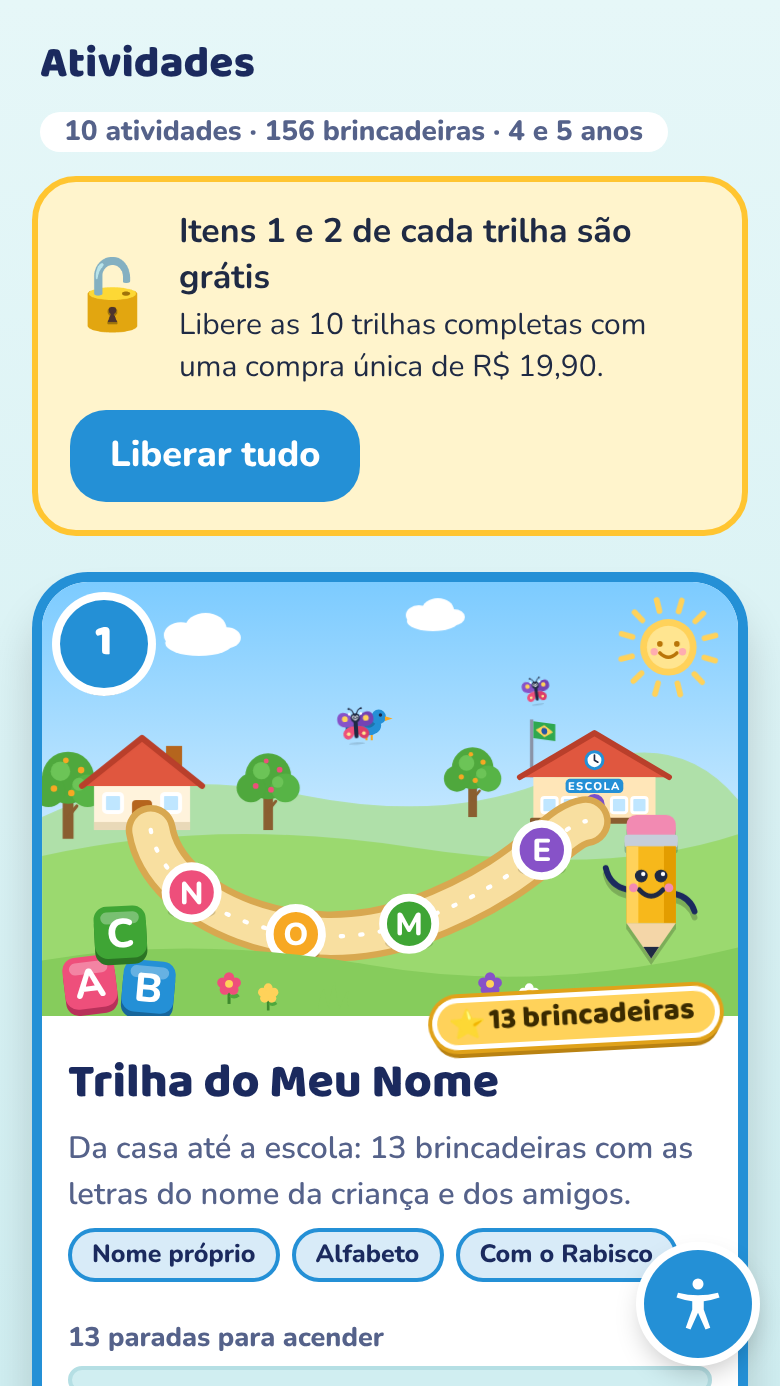
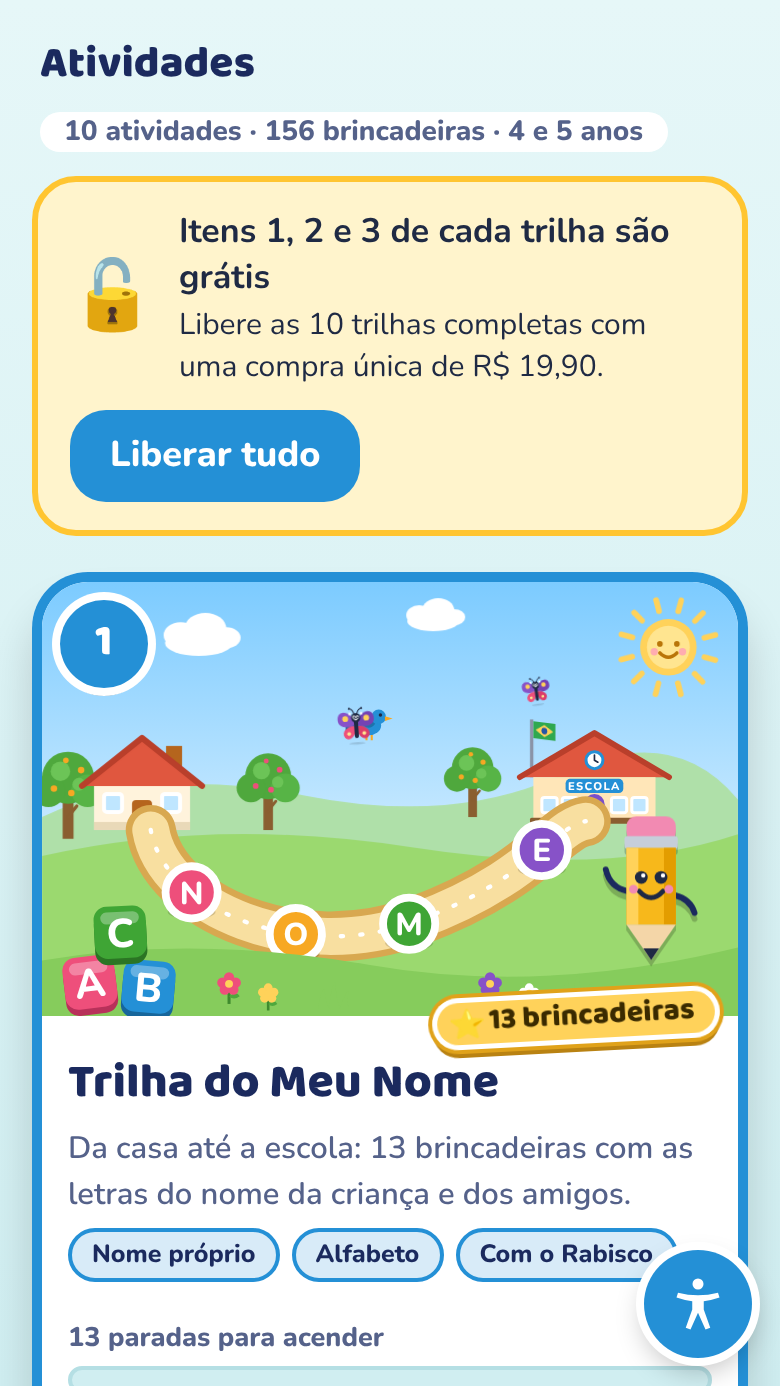
App: itens 1, 2 e 3 de cada trilha grátis
GRATIS passa de 2 para 3; textos do app, da ficha da loja, da política e as telas da loja atualizados.

Claude-Session: https://claude.ai/code/session_01XZWSyeUYrPnR5ADpTgVpex

Changed region(s): [[0.3692, 0.1551, 0.8615, 0.1861], [0.7692, 0.6205, 0.8615, 0.6515]]

diff --git a/app-alfabetizando/web/premium.js b/app-alfabetizando/web/premium.js
@@ -1,12 +1,12 @@
 /* Alfabetizando (app Android): bloqueio das trilhas e compra dentro do app.
-   Regra: em cada trilha, os itens 1 e 2 ficam abertos; do item 3 em diante
+   Regra: em cada trilha, os itens 1, 2 e 3 ficam abertos; do item 4 em diante
    aparece um cadeado até a compra única "Trilhas completas" na Google Play.
    Este arquivo é injetado no fim de cada página pelo scripts/montar-www.mjs. */
 (function () {
   'use strict';
 
   var PRODUTO = 'trilhas_completas';   // mesmo ID cadastrado no Play Console
-  var GRATIS = 2;                      // itens abertos por trilha
+  var GRATIS = 3;                      // itens abertos por trilha
   var CHAVE = 'alf:premium';
   var PRECO_PADRAO = 'R$ 19,90';       // preço cadastrado no Play Console; a loja manda o valor oficial
 
@@ -114,7 +114,7 @@
     cx.innerHTML = '';
     cx.appendChild(el('div', 'alf-ic', '🎁'));
     cx.appendChild(el('h2', null, 'Libere todas as trilhas'));
-    cx.appendChild(el('p', null, 'Os itens 1 e 2 de cada trilha são grátis para conhecer. Com uma compra única, as 10 trilhas ficam liberadas por completo, para sempre, nesta conta Google.'));
+    cx.appendChild(el('p', null, 'Os itens 1, 2 e 3 de cada trilha são grátis para conhecer. Com uma compra única, as 10 trilhas ficam liberadas por completo, para sempre, nesta conta Google.'));
     cx.appendChild(el('p', 'alf-preco'));
     var msg = el('div', 'alf-msg');
     var comprar = el('button', 'alf-b alf-comprar'); comprar.type = 'button';
@@ -147,7 +147,7 @@
     return i >= GRATIS;
   }
 
-  // Cadeado nas paradas do mapa (do item 3 em diante).
+  // Cadeado nas paradas do mapa (do item 4 em diante).
   function atualizarMapa() {
     var G = jogos(); if (!G) return;
     var livre = liberado();
@@ -195,7 +195,7 @@
     var f = el('div', 'alf-hub'); f.id = 'alfBtnHub';
     f.appendChild(el('span', 'alf-hub-ic', '🔓'));
     var t = el('div', 'alf-hub-tx');
-    t.appendChild(el('b', null, 'Itens 1 e 2 de cada trilha são grátis'));
+    t.appendChild(el('b', null, 'Itens 1, 2 e 3 de cada trilha são grátis'));
     t.appendChild(el('span', null, 'Libere as 10 trilhas completas com uma compra única de ' + PRECO_PADRAO + '.'));
     f.appendChild(t);
     var b = el('button', 'alf-b', 'Liberar tudo'); b.type = 'button'; b.onclick = abrirAviso; f.appendChild(b);

diff --git a/app-alfabetizando/loja/privacidade-alfabetizando.html b/app-alfabetizando/loja/privacidade-alfabetizando.html
@@ -46,7 +46,7 @@ footer{margin-top:40px;padding-top:16px;border-top:1px solid var(--linha);color:
   <p>A narração usa a voz em português instalada no próprio aparelho. O aplicativo não grava áudio e não usa o microfone.</p>
 
   <h2>Compra dentro do aplicativo</h2>
-  <p>Os itens 1 e 2 de cada trilha são gratuitos. As trilhas completas são liberadas com uma compra única feita pela Google Play. O pagamento é processado inteiramente pelo Google, conforme a <a href="https://policies.google.com/privacy?hl=pt-BR">Política de Privacidade do Google</a>. Nós não recebemos dados de cartão nem dados pessoais de quem compra. O aplicativo só consulta a Google Play para saber se a compra foi feita.</p>
+  <p>Os itens 1, 2 e 3 de cada trilha são gratuitos. As trilhas completas são liberadas com uma compra única feita pela Google Play. O pagamento é processado inteiramente pelo Google, conforme a <a href="https://policies.google.com/privacy?hl=pt-BR">Política de Privacidade do Google</a>. Nós não recebemos dados de cartão nem dados pessoais de quem compra. O aplicativo só consulta a Google Play para saber se a compra foi feita.</p>
   <p>Antes da tela de compra, o aplicativo mostra uma pergunta para ser respondida por um adulto, para que a criança não chegue sozinha ao pagamento.</p>
 
   <h2>Conexão com a internet</h2>

diff --git a/app-alfabetizando/loja/ficha-da-loja.md b/app-alfabetizando/loja/ficha-da-loja.md
@@ -6,7 +6,7 @@ Textos e respostas para copiar no Play Console.
 
 - **Nome do app** (até 30 caracteres): Alfabetizando
 - **Descrição curta** (até 80 caracteres):
-  Brincadeiras com letras para crianças de 4 e 5 anos. Itens 1 e 2 grátis.
+  Brincadeiras com letras para crianças de 4 e 5 anos. Itens 1, 2 e 3 grátis.
 - **Categoria:** Educação
 - **E-mail de contato:** mundo.encantado.prof@gmail.com
 - **Site:** https://mundoencantadoeduca.com.br
@@ -42,7 +42,7 @@ PARA EDUCADORES E FAMÍLIAS
 • Acessibilidade: velocidade da voz, letras maiores e menos movimento.
 
 GRÁTIS PARA CONHECER
-Os itens 1 e 2 de cada trilha são gratuitos. Com uma compra única de R$ 19,90, sem assinatura, as 10 trilhas ficam liberadas por completo. Antes da compra, o app faz uma pergunta para um adulto responder.
+Os itens 1, 2 e 3 de cada trilha são gratuitos. Com uma compra única de R$ 19,90, sem assinatura, as 10 trilhas ficam liberadas por completo. Antes da compra, o app faz uma pergunta para um adulto responder.
 
 SEM ANÚNCIOS E SEM COLETA DE DADOS
 Não há cadastro nem anúncios. O nome da criança e o avanço ficam guardados só no aparelho.

diff --git a/app-alfabetizando/LEIA-ME.md b/app-alfabetizando/LEIA-ME.md
@@ -5,8 +5,8 @@ App para a Google Play feito a partir do "Brincando com as Letras"
 
 ## Como funciona o bloqueio
 
-- Em cada uma das 10 trilhas, os **itens 1 e 2 ficam abertos** para a família conhecer.
-- Do item 3 em diante aparece um **cadeado amarelo**. Ao tocar, a criança vê
+- Em cada uma das 10 trilhas, os **itens 1, 2 e 3 ficam abertos** para a família conhecer.
+- Do item 4 em diante aparece um **cadeado amarelo**. Ao tocar, a criança vê
   "Chame um adulto"; o adulto responde uma conta simples e chega à tela de compra.
 - A compra é **única** ("Trilhas completas") e libera tudo, para sempre, na conta Google.
   O botão "Já comprei: restaurar" recupera a compra num celular novo.
